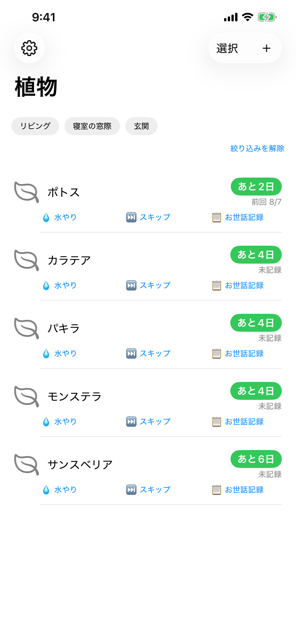
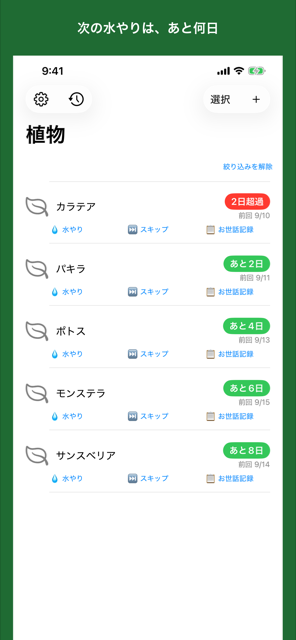
LP を公開中の ver-2.0（ストア 2.0）の内容に揃える
- title/og:title とフッターをストア名「Sodato 観葉植物の水やり記録」へ
- ヒーロー・meta から ASC で削除済みの「図鑑もコミュニティもありません」を外し、ASC 現行文言へ
- 「1鉢から5鉢の人のために作りました」節を ASC の差し替え後の文言へ
- 全植物横断タイムラインの節を追加、通知節に通知の集約とアイコンのバッジを追加
- 無料一覧に「植物の削除」「全部の鉢のお世話記録を日付順に振り返る」を追加
- スクショを v2 の5枚（キャプション入り）へ差し替え（296×640）
- README: 内容の版を ver-2.0 に、正本の参照先・マーケティングURL（未設定）を事実どおりに

d-yso5qm

diff --git a/index.html b/index.html
@@ -3,10 +3,10 @@
 <head>
 <meta charset="UTF-8">
 <meta name="viewport" content="width=device-width, initial-scale=1.0">
-<title>Sodato — 次の水やりが「あと◯日」でわかる</title>
-<meta name="description" content="観葉植物の次の水やり日を「あと◯日」で示す iPhone アプリ。夏と冬で2倍以上変わる間隔に季節で追随します。図鑑もコミュニティもなし、1鉢から5鉢の人のために作りました。">
-<meta property="og:title" content="Sodato — 次の水やりが「あと◯日」でわかる">
-<meta property="og:description" content="観葉植物の次の水やり日を「あと◯日」で示す iPhone アプリ。季節で変わる間隔に追随します。1鉢から5鉢の人のために。">
+<title>Sodato 観葉植物の水やり記録 — 次の水やりが「あと何日」でわかる</title>
+<meta name="description" content="「前にいつ水をやったっけ」を、もう思い出さなくていい。Sodatoは、観葉植物の次の水やり日を「あと3日」のように示すアプリです。日本の観葉植物は、夏と冬で水やりの間隔が2倍以上変わります。">
+<meta property="og:title" content="Sodato 観葉植物の水やり記録 — 次の水やりが「あと何日」でわかる">
+<meta property="og:description" content="「前にいつ水をやったっけ」を、もう思い出さなくていい。Sodatoは、観葉植物の次の水やり日を「あと3日」のように示すアプリです。">
 <meta property="og:type" content="website">
 <style>
   :root {
@@ -124,11 +124,10 @@
   <div class="wrap">
     <img class="appicon" src="images/appicon.png" alt="Sodato のアプリアイコン">
     <span class="mark">iPhone アプリ</span>
-    <h1>次の水やりが、<br>「あと◯日」でわかる。</h1>
+    <h1>次の水やりが、<br>「あと何日」でわかる。</h1>
     <p class="lead">
       「前にいつ水をやったっけ」を、もう思い出さなくていい。<br>
-      Sodato は、観葉植物の次の水やり日を数えておくアプリです。<br>
-      図鑑もコミュニティもありません。
+      Sodato は、観葉植物の次の水やり日を「あと3日」のように示すアプリです。
     </p>
     <a class="cta" href="https://apps.apple.com/jp/app/id6798340201">App Store で見る</a>
     <span class="cta-note">無料。買い切り 480円 あり（月額・年額の課金はありません）</span>
@@ -208,7 +207,7 @@
           分かったら、その月だけ直してください。触らない月はそのままです。
         </p>
       </div>
-      <div class="shot"><img src="images/shot-04.png" alt="月ごとの水やり間隔を編集する画面。1月と2月は7日、6月から8月は3日というように月別の日数が並ぶ" loading="lazy"></div>
+      <div class="shot"><img src="images/shot-04.png" alt="月ごとの水やり間隔を編集する画面。上部に「夏は3日、冬は7日。季節に追随します」の見出し。1月と2月は7日、6月から8月は3日というように月別の日数が並ぶ" loading="lazy"></div>
     </div>
   </div>
 </section>
@@ -226,7 +225,7 @@
         </ul>
         <p style="margin-bottom:0">置き場所（リビング・寝室の窓際・玄関など）で絞り込めます。</p>
       </div>
-      <div class="shot"><img src="images/shot-01.png" alt="鉢の一覧。各行に名前と「あと2日」などの残り日数、水やり・スキップ・お世話記録のボタンが並ぶ画面" loading="lazy"></div>
+      <div class="shot"><img src="images/shot-01.png" alt="鉢の一覧。上部に「次の水やりは、あと何日」の見出し。各行に名前と「あと2日」「2日超過」などの残り日数、水やり・スキップ・お世話記録のボタンが並ぶ画面" loading="lazy"></div>
     </div>
   </div>
 </section>
@@ -249,7 +248,7 @@
 <section>
   <div class="wrap">
     <div class="row flip">
-      <div class="shot"><img src="images/shot-05.png" alt="設定画面。iCloud同期、リマインダー通知のオンオフ、通知する時刻9:00、サポートなどのリンクが並ぶ" loading="lazy"></div>
+      <div class="shot"><img src="images/shot-05.png" alt="設定画面。上部に「通知は「土を触って確認してみよう」」の見出し。iCloud同期、リマインダー通知のオンオフ、通知する時刻9:00、サポートなどのリンクが並ぶ" loading="lazy"></div>
       <div>
         <h2>通知は「確認」をうながします<span class="tag free">無料</span></h2>
         <p>
@@ -260,7 +259,11 @@
           断定すると、そのズレがそのまま水のやりすぎ＝根腐れにつながります。
           確認をうながす形なら、多少のズレが実害になりません。
         </p>
-        <p style="margin-bottom:0">通知は時刻を選べます。切っても記録と「あと◯日」は残ります。</p>
+        <p>通知は時刻を選べます。切っても記録と「あと◯日」は残ります。</p>
+        <p>同じ日に複数の鉢の予定が重なっても、通知は1本にまとまります。文面は変わりません。</p>
+        <p style="margin-bottom:0">
+          アプリアイコンのバッジには、予定日を過ぎた鉢の数を表示します。通知を許可していない場合は表示されません。
+        </p>
       </div>
     </div>
   </div>
@@ -276,7 +279,7 @@
           どれも記録できて、どれも無料です。水やりだけは、記録すると次の予定日が更新されます。
         </p>
       </div>
-      <div class="shot"><img src="images/shot-02.png" alt="記録するお世話を選ぶ画面。水やり・剪定・植え替え・施肥・葉の世話・害虫駆除・支柱立て・日光浴の8つのアイコンが並ぶ" loading="lazy"></div>
+      <div class="shot"><img src="images/shot-02.png" alt="記録するお世話を選ぶ画面。上部に「お世話は8種類、すべて無料」の見出し。水やり・剪定・植え替え・施肥・葉の世話・害虫駆除・支柱立て・日光浴の8つのアイコンが並ぶ" loading="lazy"></div>
     </div>
   </div>
 </section>
@@ -284,13 +287,11 @@
 <section>
   <div class="wrap">
     <div class="row flip">
-      <div class="shot"><img src="images/shot-03.png" alt="お世話の記録が新しい順に並ぶ履歴画面。記録と写真のタブがある" loading="lazy"></div>
+      <div class="shot"><img src="images/shot-03.png" alt="すべての鉢のお世話記録が日付の新しい順に並ぶ「すべてのお世話」画面。上部に「鉢をまたいで、今日のお世話を振り返る」の見出し。今日・昨日・9月13日のように日付ごとに、鉢の名前とお世話の種類と時刻が並ぶ" loading="lazy"></div>
       <div>
-        <h2>写真で、成長を振り返る<span class="tag free">無料</span></h2>
-        <p>お世話の記録に写真を添えると、時系列で並びます。写真だけの記録も残せます。</p>
+        <h2>鉢をまたいで振り返れます<span class="tag free">無料</span></h2>
         <p style="margin-bottom:0">
-          写真は<strong>お使いの写真アプリのものを参照します</strong>。アプリの中に画像をコピーしないので、
-          鉢を増やしても本体の容量を圧迫しません。
+          ホーム上部のボタンから、登録したすべての鉢のお世話記録を、日付の新しい順に1本の時系列で振り返れます。
         </p>
       </div>
     </div>
@@ -299,14 +300,20 @@
 
 <section>
   <div class="wrap">
-    <h2>1鉢から5鉢の人のために作りました</h2>
-    <p>
-      部屋に緑を置きたい程度で、植物マニアではない。以前に一度枯らしたことがあって、
-      いつ水をやればいいのか分からないまま感覚で世話している。そういう人のためのアプリです。
-    </p>
+    <h2>写真で、成長を振り返る<span class="tag free">無料</span></h2>
+    <p>お世話の記録に写真を添えると、時系列で並びます。写真だけの記録も残せます。</p>
     <p style="margin-bottom:0">
-      多機能なアプリを入れたものの、開かなくなった経験がある方に向いています。
-      たくさんの鉢を管理したい愛好家向けではありません。
+      写真は<strong>お使いの写真アプリのものを参照します</strong>。アプリの中に画像をコピーしないので、
+      鉢を増やしても本体の容量を圧迫しません。
+    </p>
+  </div>
+</section>
+
+<section>
+  <div class="wrap">
+    <h2>水やりを定期的にしたいけど、前にいつあげたっけ？となんとなくそろそろかなと水をあげている。</h2>
+    <p style="margin-bottom:0">
+      そういう人のためのアプリです。多機能なアプリを開かなくなった経験がある方に向いています。
     </p>
   </div>
 </section>
@@ -327,6 +334,8 @@
           <li>8種類のお世話の記録</li>
           <li>写真の記録と時系列表示</li>
           <li>場所での絞り込み</li>
+          <li>植物の削除</li>
+          <li>全部の鉢のお世話記録を日付順に振り返る</li>
         </ul>
       </div>
       <div class="plan">
@@ -393,7 +402,7 @@
       <a href="https://shoheicraftdev-design.github.io/sodato-support/terms.html">利用規約</a>
       <a href="mailto:shohei.craft.dev@gmail.com">お問い合わせ</a>
     </p>
-    <p style="margin-top:18px">ShoheiCraftDev</p>
+    <p style="margin-top:18px">Sodato 観葉植物の水やり記録<br>ShoheiCraftDev</p>
   </div>
 </footer>
 

diff --git a/README.md b/README.md
@@ -1,6 +1,9 @@
 # Sodato — 製品LP
 
-iPhone アプリ「Sodato」（内部名 PlantCareLog）の製品紹介ページ。GitHub Pages で公開する想定。
+iPhone アプリ「Sodato 観葉植物の水やり記録」（ホーム画面の表示名は Sodato、内部名 PlantCareLog）の製品紹介ページ。GitHub Pages（main）で公開している。
+
+- 内容の版: **ver-2.0（ストア 2.0・2026-09-16 公開）**。2026-09-28 に更新（d-yso5qm）
+- 文言の正本: アプリ側リポジトリ `plant-care-log` の `docs/appstore/asc-paste/`（`description.txt`＝CEO が ASC で手直しした後の実値。公開中の説明文と一致）・`docs/appstore/ver-2.0-submission.md`・`docs/appstore/v2-store-listing.md`。LP で新しい言い回しを作らず、ここに揃える
 
 - 公開URL: https://shoheicraftdev-design.github.io/sodato-lp/
 - App Store: **公開中**。`https://apps.apple.com/jp/app/id6798340201`
@@ -10,13 +13,15 @@ iPhone アプリ「Sodato」（内部名 PlantCareLog）の製品紹介ページ
 ## 位置づけ
 
 えも日LP（`emo-diary-lp`）と同じく、**匿名ライン（note・Xで製品名を出さない）を維持したまま
-アプリ名とストアURLを出せるチャネル**。ASC のマーケティングURLに設定する。
+アプリ名とストアURLを出せるチャネル**。ASC のマーケティングURLには**設定していない**（空欄のまま。
+`plant-care-log/docs/appstore/v2-store-listing.md` §8。入れる場合はその決定をアプリ側に記録してから）。
 サポート・法務ページは別リポジトリ `sodato-support` が持つ（ここには置かない）。
 
 ## 素材
 
 `images/` のスクリーンショットは、アプリ側リポジトリ `plant-care-log` の
-`docs/appstore/screenshots/iphone-6.7-1284x2778/` を長辺640pxへ縮小したもの。
+`docs/appstore/screenshots/v2/iphone-6.7-1284x2778/`（ver-2.0 の掲載スクショ・上部にキャプション1行入り）を
+長辺640pxへ縮小したもの（`sips -Z 640`）。
 差し替える場合は元の 1284×2778 から作り直すこと。`appicon.png` は
 `PlantCareLog/Assets.xcassets/AppIcon.appiconset/AppIcon-1024.png` の縮小。
 
@@ -24,11 +29,11 @@ iPhone アプリ「Sodato」（内部名 PlantCareLog）の製品紹介ページ
 | :--- | :--- |
 | `shot-01.png` | `01_home-list.png` |
 | `shot-02.png` | `02_care-picker.png` |
-| `shot-03.png` | `03_care-timeline.png` |
+| `shot-03.png` | `03_care-timeline-all.png`（全植物横断タイムライン） |
 | `shot-04.png` | `04_monthly-intervals.png` |
 | `shot-05.png` | `05_settings-notification.png` |
 
-## 文言のルール（アプリ側 `docs/appstore/v1-store-listing.md` の禁止事項を継承）
+## 文言のルール（アプリ側 `docs/appstore/v1-store-listing.md` の禁止事項を継承。ver-2.0 の差分は `v2-store-listing.md`）
 
 書いてはいけない:
 
@@ -41,5 +46,5 @@ iPhone アプリ「Sodato」（内部名 PlantCareLog）の製品紹介ページ
 月別間隔のグラフ（インラインSVG）の数値は **`normal`（標準的）カテゴリの実値**（12/12/7/7/7/5/5/5/7/7/7/12 日）。
 換算表の正本は `plant-care-log/docs/reference/watering-category-table.md`。アプリ側で表を変えたらここも直す。
 
-⚠ `shot-04`（月別間隔の編集画面）に写っている 7/7/4/4/4/3/3/3/4/4/4/7 は **`moist`（湿り気を好む）** の値で、
+⚠ `shot-04`（月別間隔の編集画面）に写っている 7/7/4/4/4/3/3/3/4/4/4/7（キャプション「夏は3日、冬は7日」）は **`moist`（湿り気を好む）** の値で、
 グラフの `normal` とは別カテゴリ。同じ数字だと思って揃えないこと。
